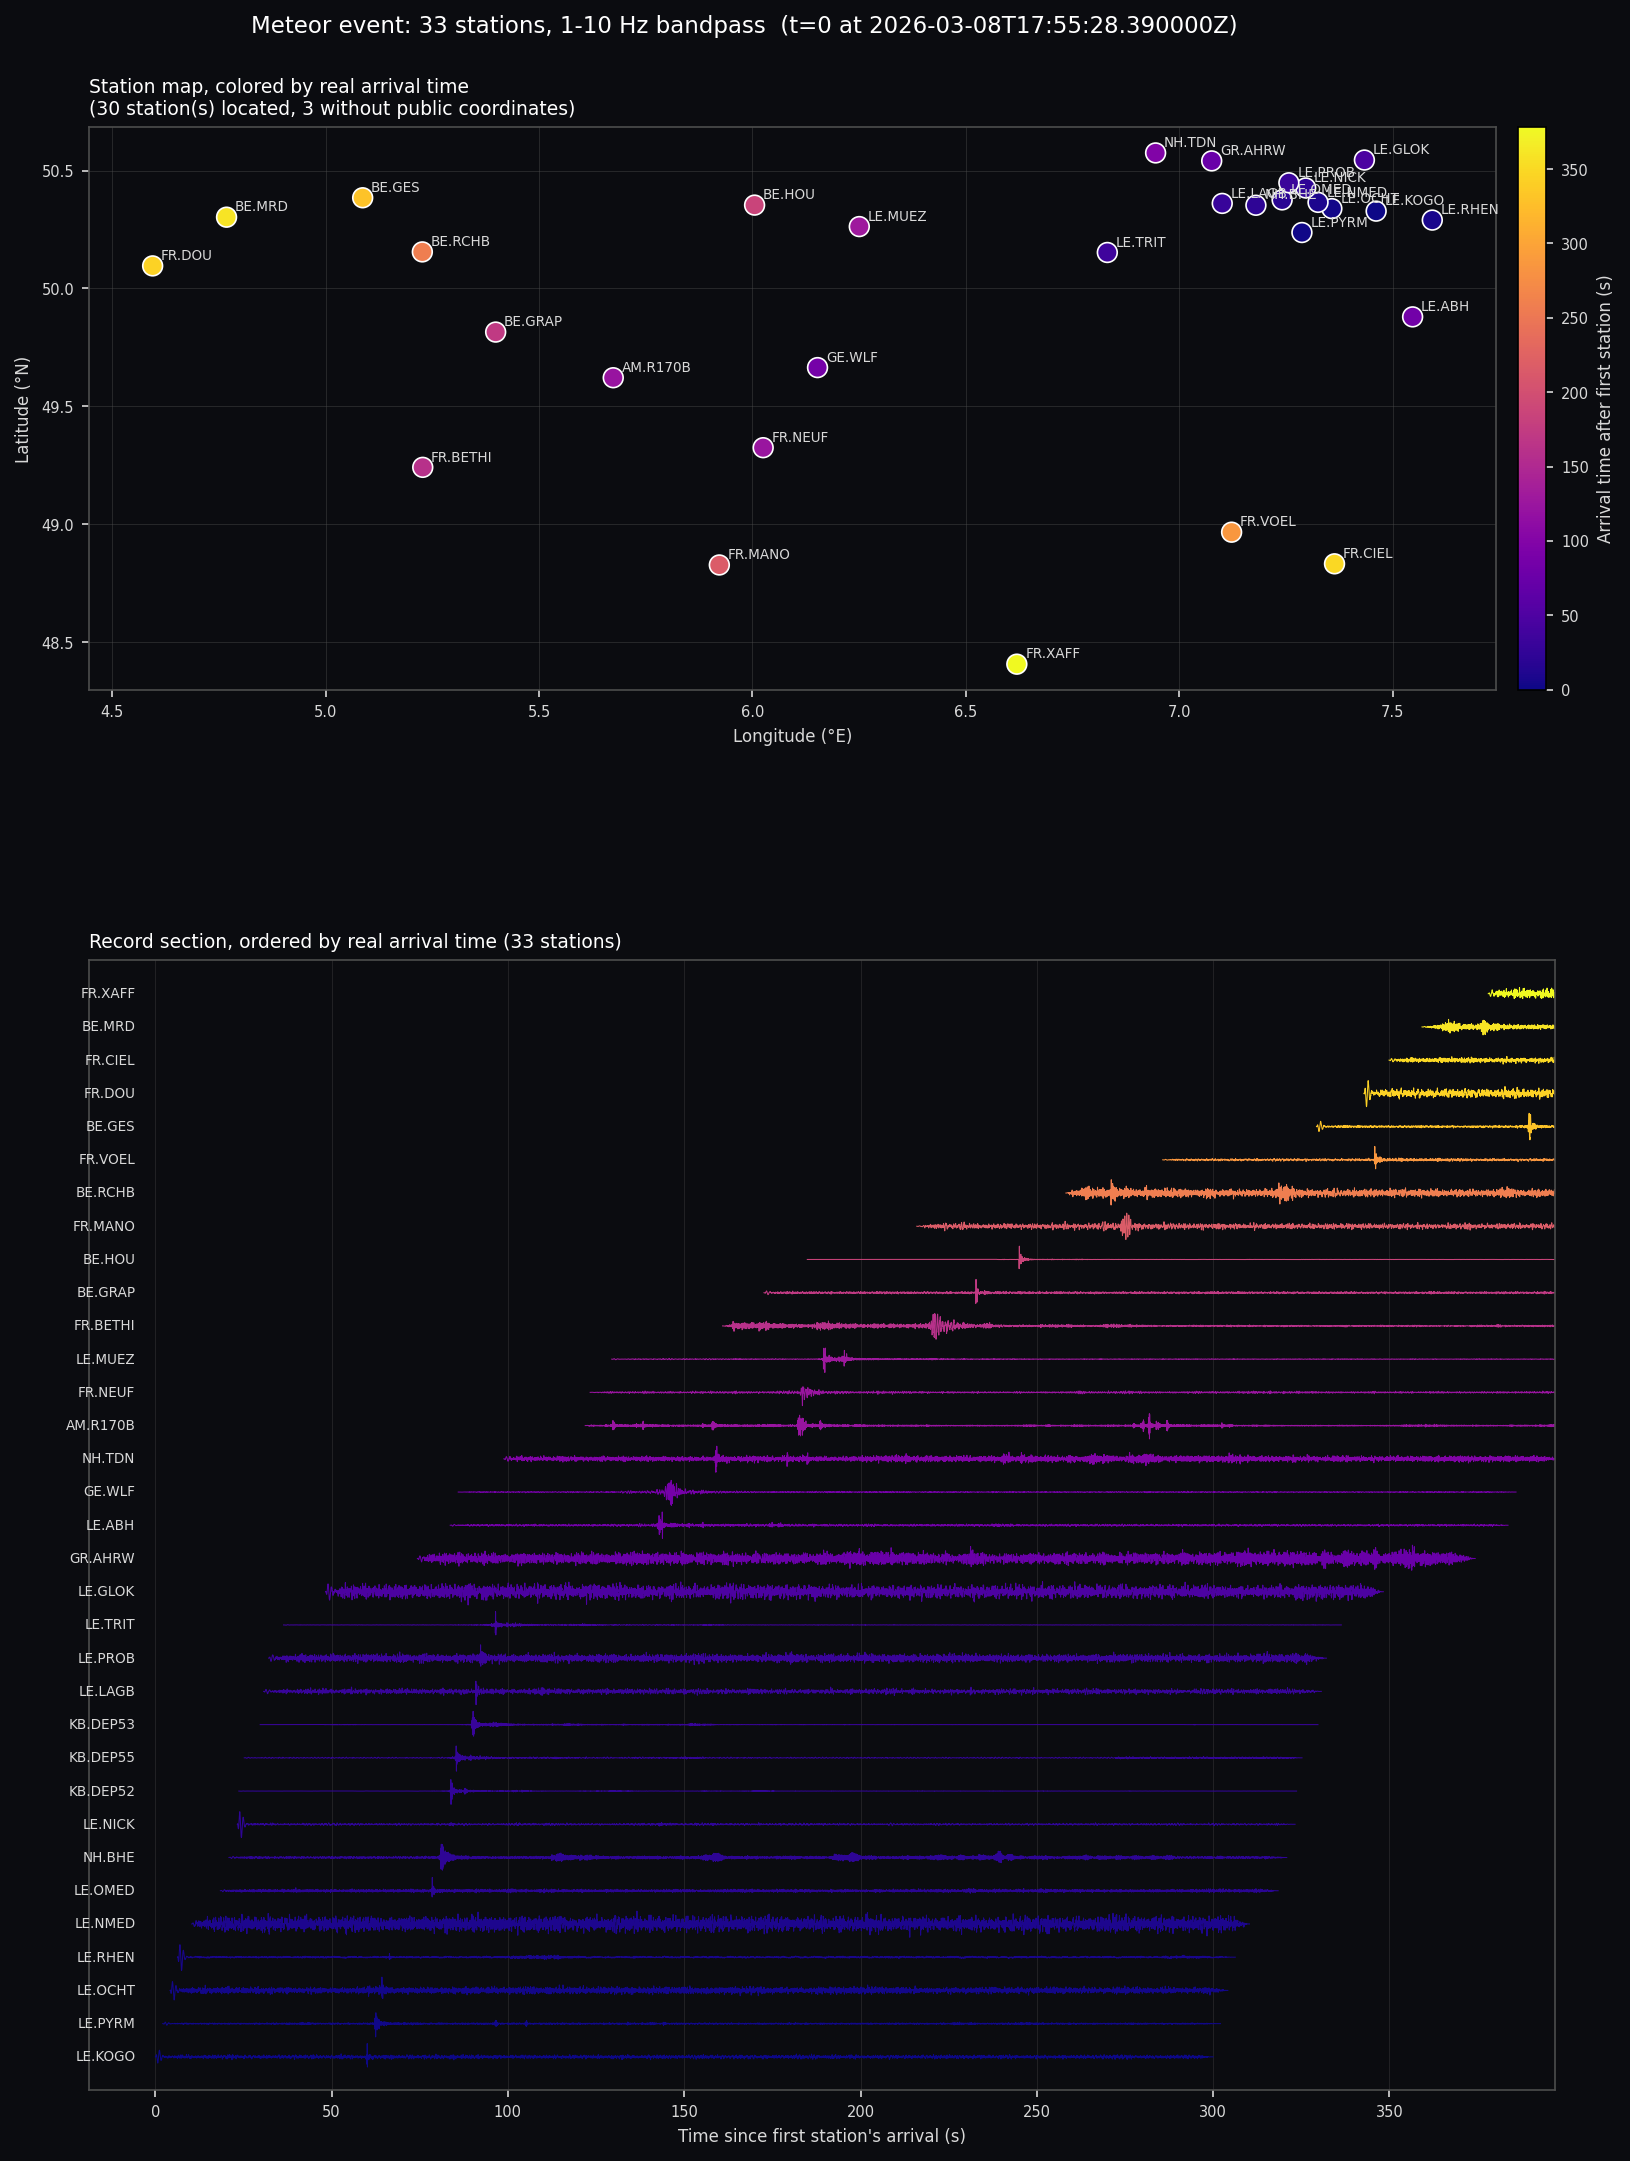
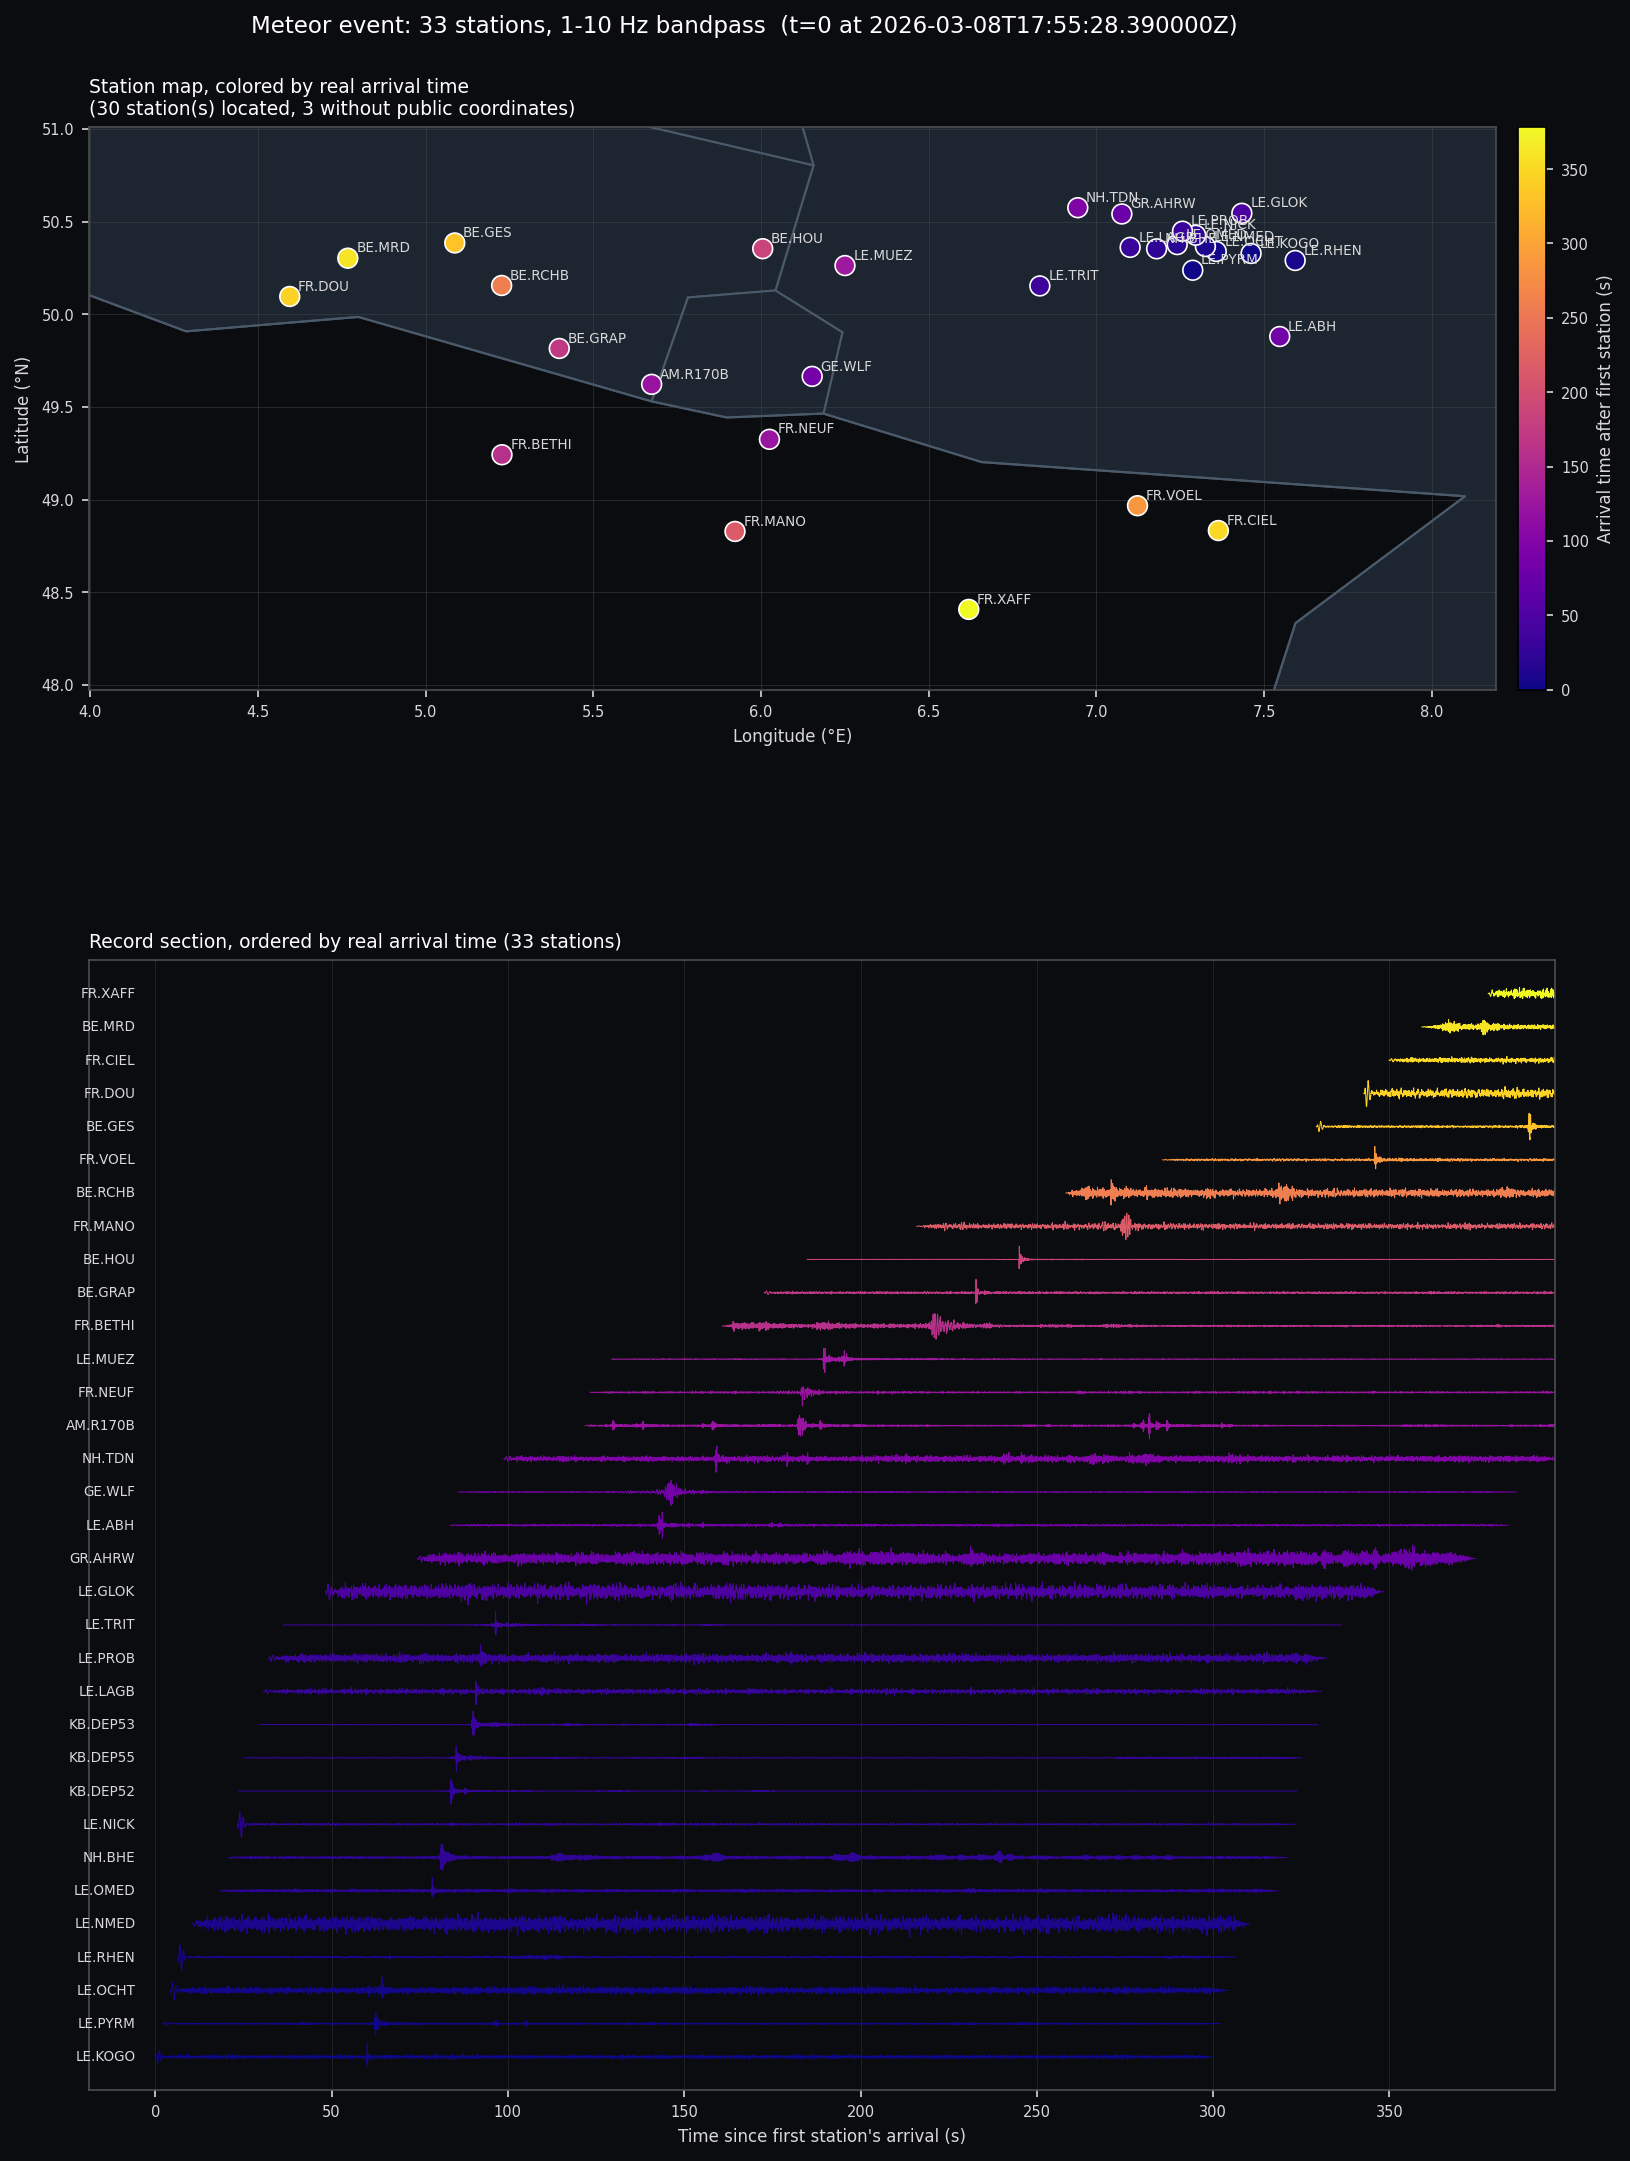
sonifimeteor.py: draw country borders (Germany/Belgium/Luxembourg/Netherlands/France) on the plot map for geographic context, zoomed to the station cluster

Changed region(s): [[0.0307, 0.062, 0.9202, 0.341], [0.5828, 0.279, 0.6442, 0.31], [0.0307, 0.217, 0.0613, 0.248]]

diff --git a/sonifimeteor.py b/sonifimeteor.py
@@ -59,6 +59,9 @@ SONIFIMETEOR_DIR = os.path.join(DATASETS_DIR, "sonifications_sonifimeteor")
 os.makedirs(SONIFIMETEOR_DIR, exist_ok=True)
 PLOT_SONIFIMETEOR_DIR = os.path.join(DATASETS_DIR, "plot_sonifimeteor")
 os.makedirs(PLOT_SONIFIMETEOR_DIR, exist_ok=True)
+ASSETS_DIR = os.path.join(BASE_DIR, "assets")
+GERMANY_OUTLINE_PATH = os.path.join(ASSETS_DIR, "germany_outline.json")
+NEIGHBOR_BORDERS_PATH = os.path.join(ASSETS_DIR, "meteor_neighbor_borders.json")
 
 # Same pyTREMOR-inspired dark theme as DZA01.py's plots, for visual consistency
 # across the two scripts (kept as separate constants here since this script is
@@ -354,6 +357,38 @@ def do_merge(st, mseed_path, station_filter, speed_up_factor, freqmin, freqmax, 
     return wav_path
 
 
+_region_borders_cache = None
+
+
+def _load_region_borders():
+    """Country border outlines drawn as background context on the map panel:
+    Germany's full outline (shared asset with DZA01.py) plus the immediate
+    neighbors this station network actually spans -- Belgium, Luxembourg, and
+    the Netherlands (full rings), and just the NE corner of France that
+    borders them (see assets/meteor_neighbor_borders.json). Each entry is
+    (name, [lon, lat] points, is_closed_ring)."""
+    global _region_borders_cache
+    if _region_borders_cache is not None:
+        return _region_borders_cache
+    borders = []
+    try:
+        with open(GERMANY_OUTLINE_PATH, encoding="utf-8") as f:
+            borders.append(("Germany", json.load(f)["coordinates"], True))
+    except OSError:
+        pass
+    try:
+        with open(NEIGHBOR_BORDERS_PATH, encoding="utf-8") as f:
+            neighbors = json.load(f)
+        borders.append(("Belgium", neighbors["belgium"], True))
+        borders.append(("Luxembourg", neighbors["luxembourg"], True))
+        borders.append(("Netherlands", neighbors["netherlands"], True))
+        borders.append(("France", neighbors["france_partial"], False))
+    except OSError:
+        pass
+    _region_borders_cache = borders
+    return borders
+
+
 def do_plot(st, mseed_path, station_filter, freqmin, freqmax, taper_max_length, use_pan):
     """Dark-themed, two-panel static picture of the same thing 'merge' turns into
     sound: a station map colored by real arrival time (a still analogue of
@@ -415,6 +450,14 @@ def do_plot(st, mseed_path, station_filter, freqmin, freqmax, taper_max_length, 
 
     # -- left panel: station map colored by real arrival time --
     map_ax.set_facecolor(BG_COLOR)
+    for name, points, is_closed in _load_region_borders():
+        border_lons = [p[0] for p in points]
+        border_lats = [p[1] for p in points]
+        if is_closed:
+            map_ax.fill(border_lons, border_lats, facecolor="#1c2530", edgecolor="#4a5a6a",
+                         linewidth=1.0, zorder=1)
+        else:
+            map_ax.plot(border_lons, border_lats, color="#4a5a6a", linewidth=1.0, zorder=1)
     if located:
         lons = [coords[(tr.stats.network, tr.stats.station)][1] for tr in located]
         lats = [coords[(tr.stats.network, tr.stats.station)][0] for tr in located]
@@ -429,6 +472,14 @@ def do_plot(st, mseed_path, station_filter, freqmin, freqmax, taper_max_length, 
         cbar.set_label("Arrival time after first station (s)", color=FG_COLOR, fontsize=8)
         cbar.ax.yaxis.set_tick_params(color=FG_COLOR)
         plt.setp(cbar.ax.get_yticklabels(), color=FG_COLOR, fontsize=7)
+        # Zoom to the station cluster (not the whole countries behind it), with a
+        # margin proportional to its spread. Aspect is left auto (not locked to
+        # true geographic scale) so the panel fills its full row instead of
+        # letterboxing -- at this regional scale the borders still read fine.
+        lon_margin = max(0.35, (max(lons) - min(lons)) * 0.2)
+        lat_margin = max(0.35, (max(lats) - min(lats)) * 0.2)
+        map_ax.set_xlim(min(lons) - lon_margin, max(lons) + lon_margin)
+        map_ax.set_ylim(min(lats) - lat_margin, max(lats) + lat_margin)
     else:
         map_ax.text(0.5, 0.5, "No public station coordinates resolved\n(try without --no-pan)",
                      color=FG_COLOR, fontsize=9, ha="center", va="center",
